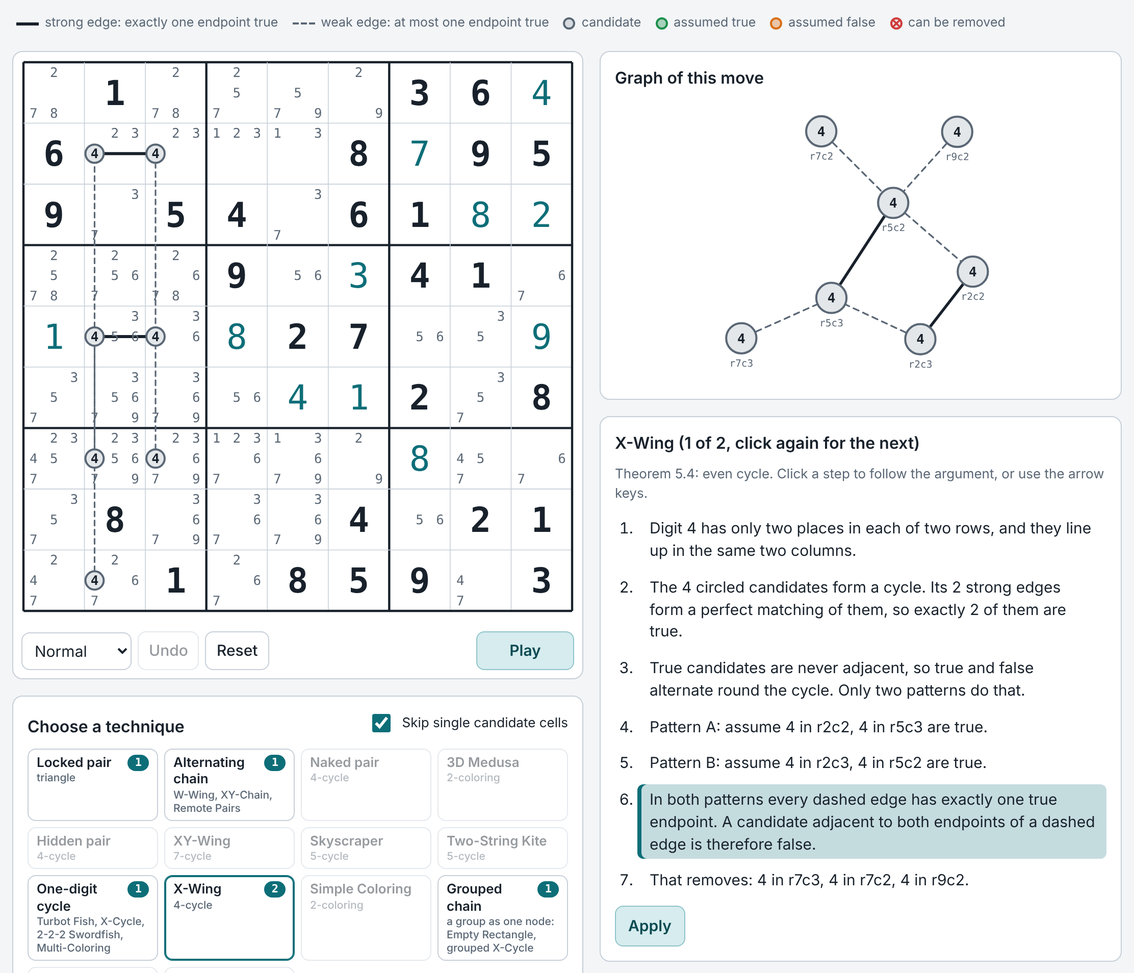
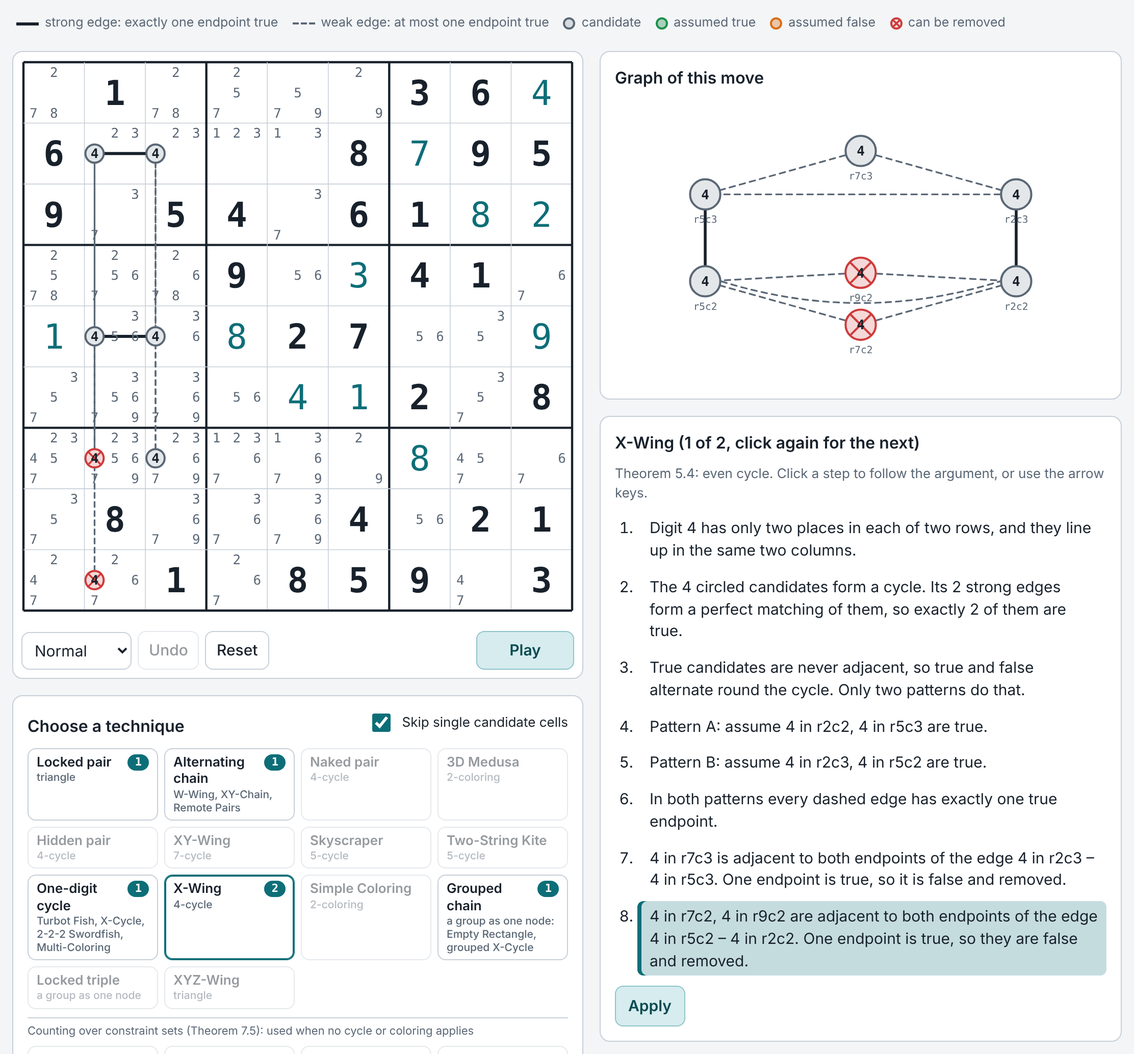
Even-cycle moves: draw both edges from each removed candidate and say which edge removes it
Also drop the remaining made-up labels (counted edge, sets rule) from the solver.

Claude-Session: https://claude.ai/code/session_0161PMRBv2Fxor83Lofabj9S

diff --git a/index.html b/index.html
@@ -361,16 +361,22 @@ svg .landing { animation: landing var(--dur, 1100ms) ease-in-out; }
     }
     if (!elim.size) return null;
     res.elim = [...elim]; res.elim.forEach(t => res.nodes.set(t, 'elim'));
-    // every removed candidate gets one dashed link, to the nearer end of the loop link it is linked to (it is linked to both ends)
-    for (const x of res.elim) for (let i = 0; i < n; i++) { const a = loop[i], b = loop[(i + 1) % n]; if (linked(x, a) && linked(x, b)) { const far = c => Math.abs(ROW(cCell(x)) - ROW(cCell(c))) + Math.abs(COL(cCell(x)) - COL(cCell(c))); res.links.push({ a: x, b: far(a) <= far(b) ? a : b, strong: false }); break; } }
+    // every removed candidate is drawn with its edges to both endpoints of the cycle edge it is adjacent to: that pair is the reason it goes
+    const why = new Map();
+    for (const x of res.elim) for (let i = 0; i < n; i++) { const a = loop[i], b = loop[(i + 1) % n]; if (linked(x, a) && linked(x, b)) { res.links.push({ a: x, b: a, strong: false }); res.links.push({ a: x, b: b, strong: false }); why.set(x, [a, b]); break; } }
     const pat = k => { const m = {}; loop.forEach((c, i) => { m[c] = i % 2 === k ? 't' : 'f'; }); res.elim.forEach(c => { m[c] = 'f'; }); return m; };
     if (intro) say(res, intro);
     say(res, 'The ' + n + ' circled candidates form a cycle. Its ' + (n / 2) + ' strong edges form a perfect matching of them, so exactly ' + (n / 2) + ' of them are true.');
     say(res, 'True candidates are never adjacent, so true and false alternate round the cycle. Only two patterns do that.');
     say(res, 'Pattern A: assume ' + list(loop.filter((_, i) => i % 2 === 0)) + ' are true.', pat(0));
     say(res, 'Pattern B: assume ' + list(loop.filter((_, i) => i % 2 === 1)) + ' are true.', pat(1));
-    say(res, 'In both patterns every dashed edge has exactly one true endpoint. A candidate adjacent to both endpoints of a dashed edge is therefore false.');
-    say(res, 'That removes: ' + list(res.elim) + '.');
+    say(res, 'In both patterns every dashed edge has exactly one true endpoint.');
+    const byEdge = new Map();
+    for (const x of res.elim) { const [a, b] = why.get(x), k = a + ',' + b; if (!byEdge.has(k)) byEdge.set(k, [a, b, []]); byEdge.get(k)[2].push(x); }
+    for (const [a, b, xs] of byEdge.values()) {
+      const m = {}; xs.forEach(x => { m[x] = 'elim'; });
+      say(res, list(xs) + (xs.length > 1 ? ' are' : ' is') + ' adjacent to both endpoints of the edge ' + candName(a) + ' \u2013 ' + candName(b) + '. One endpoint is true, so ' + (xs.length > 1 ? 'they are' : 'it is') + ' false and removed.', m);
+    }
     return res;
   }
 
@@ -670,7 +676,7 @@ svg .landing { animation: landing var(--dur, 1100ms) ease-in-out; }
         if (bits(m) !== k) continue;
         const elim = []; for (const c of cells) if (!cs.includes(c)) for (const d of digits(st.cand[c] & m)) elim.push(cid(c, d));
         if (!elim.length) continue;
-        const res = mkResult('Naked ' + word, 'Theorem 7.5, the sets rule: ' + k + ' cells need ' + k + ' digits');
+        const res = mkResult('Naked ' + word, 'Theorem 7.5: ' + k + ' cells need ' + k + ' digits');
         res.groups = digits(m).map(d => cs.filter(c => has(st, c, d)).map(c => cid(c, d))); res.groupStyle = 'arc';
         { const ed = []; for (const c of cells) for (const d of digits(st.cand[c])) { const id = cid(c, d); ed.push({ l: c, r: d, id, kind: cs.includes(c) ? 'block' : elim.includes(id) ? 'elim' : 'other' }); }
           matchingFor(res, 'Cells and digits of ' + unitName(u) + ': each cell takes one digit', cellName, d => String(d), ed, cs, digits(m)); }
@@ -686,7 +692,7 @@ svg .landing { animation: landing var(--dur, 1100ms) ease-in-out; }
         if (where.length !== k) continue;
         const elim = []; for (const c of where) for (const d of digits(st.cand[c])) if (!dd.includes(d)) elim.push(cid(c, d));
         if (!elim.length) continue;
-        const res = mkResult('Hidden ' + word, 'Theorem 7.5, the sets rule: ' + k + ' digits need ' + k + ' cells');
+        const res = mkResult('Hidden ' + word, 'Theorem 7.5: ' + k + ' digits need ' + k + ' cells');
         res.groups = where.map(c => dd.filter(d => has(st, c, d)).map(d => cid(c, d))); res.groupStyle = 'arc';
         { const ed = []; for (const c of cells) for (const d of digits(st.cand[c])) { const id = cid(c, d); ed.push({ l: c, r: d, id, kind: where.includes(c) && dd.includes(d) ? 'block' : elim.includes(id) ? 'elim' : 'other' }); }
           matchingFor(res, 'Cells and digits of ' + unitName(u) + ': each digit takes one cell', cellName, d => String(d), ed, where, dd); }
@@ -713,7 +719,7 @@ svg .landing { animation: landing var(--dur, 1100ms) ease-in-out; }
         for (const x of cv) for (const c of UNITS[cover + x]) if (!bi.includes(baseOf(c)) && has(st, c, d)) elim.push(cid(c, d));
         const key = elim.join(','); if (!elim.length || seen.has(key)) continue; seen.add(key);
         const num = k === 3 ? 'three' : 'four';
-        const res = mkResult(k === 3 ? 'Swordfish' : 'Jellyfish', 'Theorem 7.5, the sets rule: ' + k + ' ' + bn + ' need ' + k + ' ' + cn);
+        const res = mkResult(k === 3 ? 'Swordfish' : 'Jellyfish', 'Theorem 7.5: ' + k + ' ' + bn + ' need ' + k + ' ' + cn);
         res.groups = cv.map(x => { const g = []; for (const l of ls) for (const c of l.cs) if (coverOf(c) === x) g.push(cid(c, d)); return g; }); res.groupStyle = 'arc';
         res.groups.forEach(g => g.forEach(id => res.nodes.set(id, 'loop')));
         elim.forEach(e => res.nodes.set(e, 'elim')); res.elim = elim;
@@ -741,7 +747,7 @@ svg .landing { animation: landing var(--dur, 1100ms) ease-in-out; }
         const z = digits(st.cand[w1] & st.cand[w2])[0], x = digits(st.cand[w1] & ~(1 << z))[0], y = digits(st.cand[w2] & ~(1 << z))[0];
         const elim = []; for (let c = 0; c < 81; c++) if (c !== p && c !== w1 && c !== w2 && has(st, c, z) && sees(c, p) && sees(c, w1) && sees(c, w2)) elim.push(cid(c, z));
         if (!elim.length) continue;
-        const res = mkResult('XYZ-Wing', 'Lemma 7.6 and Theorem 5.2: a triangle whose edge is counted');
+        const res = mkResult('XYZ-Wing', 'Lemma 7.6 and Theorem 5.2: a triangle');
         // the group dot is the z of the pivot together with the z of one wing; the wing in line with the pivot draws best
         const inLine = w => ROW(w) === ROW(p) || COL(w) === COL(p);
         // ...but not if a removed candidate would sit inside the outline drawn round the two
@@ -759,7 +765,7 @@ svg .landing { animation: landing var(--dur, 1100ms) ease-in-out; }
         say(res, 'If the outlined node is false, the pivot is not ' + z + ' and ' + cellName(ga) + ' is ' + xa + ', so the pivot is ' + xb + ' and ' + cellName(gb) + ' must be ' + z + '. So at least one of the outlined node and ' + candName(zo) + ' is true (solid line).');
         marks[v] = 't'; say(res, 'Suppose ' + candName(v) + ' were true.', snap());
         marks[zp] = 'f'; marks[zg] = 'f'; say(res, 'Then the outlined node is false: ' + cellName(cCell(v)) + ' is adjacent to both of its cells.', snap());
-        marks[zo] = 't'; say(res, 'Then ' + candName(zo) + ' is true, by the counted edge.', snap());
+        marks[zo] = 't'; say(res, 'Then ' + candName(zo) + ' is true (solid line).', snap());
         say(res, 'But ' + candName(zo) + ' and ' + candName(v) + ' cannot both be true: ' + linkWhy(zo, v) + '. Contradiction, so ' + candName(v) + ' is false.', snap(), [zo, v]);
         if (elim.length > 1) say(res, 'The same argument removes: ' + list(elim.slice(1)) + '.');
         out.push(res);
@@ -957,7 +963,7 @@ svg .landing { animation: landing var(--dur, 1100ms) ease-in-out; }
           const key = elim.join(','); if (seen.has(key)) continue; seen.add(key);
           const v = elim[0], line = coverOf(cCell(v)), dot = all.filter(c => coverOf(c) === line).map(c => cid(c, d)), F = fins.map(c => cid(c, d));
           if (!dot.length) continue;
-          const res = mkResult(k === 2 ? 'Finned X-Wing' : 'Finned Swordfish', 'Theorem 7.5, Lemma 7.7 and Theorem 5.2: a fish with a counted edge'), marks = {}, snap = () => Object.assign({}, marks);
+          const res = mkResult(k === 2 ? 'Finned X-Wing' : 'Finned Swordfish', 'Theorem 7.5, Lemma 7.7 and Theorem 5.2: a fish with a fin'), marks = {}, snap = () => Object.assign({}, marks);
           all.forEach(c => res.nodes.set(cid(c, d), 'loop')); F.concat(dot).forEach(id => res.nodes.set(id, 'loop')); res.groups = [F, dot];
           elim.forEach(e => res.nodes.set(e, 'elim')); res.elim = elim;
           res.links.push({ a: F[0], b: dot[0], strong: true, group: true });
@@ -967,7 +973,7 @@ svg .landing { animation: landing var(--dur, 1100ms) ease-in-out; }
           say(res, 'In ' + bn + ' ' + bi.map(i => i + 1).join(', ') + ' the digit ' + d + ' fits only in ' + cn + ' ' + cv.map(i => i + 1).sort().join(', ') + ', except for the fin: ' + list(F) + ', in box ' + (box + 1) + '.');
           say(res, 'The fin is one node (outlined). The ' + d + 's of these ' + bn + ' in ' + one + ' ' + (line + 1) + ' are another. If the fin is false, this is a plain fish and the count proves the second node true. So at least one of the two is true (solid line).');
           marks[v] = 't'; say(res, 'Suppose ' + candName(v) + ' were true.', snap());
-          F.concat(dot).forEach(id => { marks[id] = 'f'; }); say(res, 'It shares box ' + (box + 1) + ' with the fin and ' + one + ' ' + (line + 1) + ' with the other node, so both are false. That breaks the counted edge. Contradiction, so ' + candName(v) + ' is false.', snap());
+          F.concat(dot).forEach(id => { marks[id] = 'f'; }); say(res, 'It shares box ' + (box + 1) + ' with the fin and ' + one + ' ' + (line + 1) + ' with the other node, so both are false. But at least one of the two is true. Contradiction, so ' + candName(v) + ' is false.', snap());
           if (elim.length > 1) say(res, 'The same argument, with the node of its own ' + one + ', removes: ' + list(elim.slice(1)) + '.');
           out.push(res);
         }
@@ -1056,11 +1062,11 @@ svg .landing { animation: landing var(--dur, 1100ms) ease-in-out; }
     { key: 'chain', used: 1599, name: 'Alternating chain', loop: 'W-Wing, XY-Chain, Remote Pairs', find: st => findChains(st, false, 6, 1), blurb: 'Any odd cycle with alternating strong edges.' },
     { key: 'group', used: 14, name: 'Locked triple', loop: 'a group as one node', find: findLockedGroup, blurb: 'A digit confined to three cells that share a second line or box.' },
     { key: 'gchain', used: 29, name: 'Grouped chain', loop: 'a group as one node: Empty Rectangle, grouped X-Cycle', find: findGroupedChains, blurb: 'An odd cycle of one digit in which a node may be a group of cells.'},
-    { key: 'xyz', used: 6, name: 'XYZ-Wing', loop: 'triangle with a counted edge', find: findXYZWing, blurb: 'A pivot with three candidates and two wings.' },
+    { key: 'xyz', used: 6, name: 'XYZ-Wing', loop: 'triangle', find: findXYZWing, blurb: 'A pivot with three candidates and two wings.' },
     /* Beyond links. These are tried only after every loop and coloring above has failed. */
     { key: 'subset', used: 11, name: 'Triples and quads', loop: 'naked or hidden', find: findSubsets, blurb: 'Three or four cells that must share three or four digits.', beyond: true, section: 'count' },
     { key: 'fish', used: 0, name: 'Bigger fish', loop: 'Swordfish, Jellyfish', find: findFish, blurb: 'One digit: three or four rows that fit only three or four columns.', beyond: true, section: 'count' },
-    { key: 'finned', used: 2, name: 'Finned fish', loop: 'a fish with a counted edge', find: findFinnedFish, blurb: 'A fish spoiled by a few extra places in one box.', beyond: true, section: 'count', late: true },
+    { key: 'finned', used: 2, name: 'Finned fish', loop: 'a fish with a fin', find: findFinnedFish, blurb: 'A fish spoiled by a few extra places in one box.', beyond: true, section: 'count', late: true },
     { key: 'als', used: 81, name: 'Almost-locked sets', loop: 'ALS-XZ, WXYZ-Wing, ALS chain, Sue de Coq', find: findALS, blurb: 'Two sets of cells with one digit too many, joined by a shared digit.', beyond: true, section: 'count', late: true },
     { key: 'ur', used: 1, name: 'Unique rectangle', loop: 'uses: one solution', find: findUniqueRectangle, blurb: 'Four corners that would allow two solutions.', beyond: true, section: 'unique' },
     { key: 'guess', used: 0, name: 'Trial and error', loop: 'last resort', find: findGuess, blurb: 'Suppose a candidate is true and follow the single candidate cells to a contradiction.', beyond: true, section: 'last', lastResort: true }
@@ -1308,7 +1314,7 @@ svg .landing { animation: landing var(--dur, 1100ms) ease-in-out; }
   function scan() { avail = {}; var any = false; E.TECHNIQUES.forEach(function (t) { avail[t.key] = E.solved(st) || ((t.lastResort || t.late) && any) ? [] : t.find(st); if (avail[t.key].length) any = true; }); }
   function drawTechs() {
     var h = '';
-    var section = '', heads = { count: 'Counting across sets (the sets rule): used when no cycle or coloring applies', unique: 'Outside the coloring: needs the one-solution fact, or a guess as the last resort', last: null };
+    var section = '', heads = { count: 'Counting over constraint sets (Theorem 7.5): used when no cycle or coloring applies', unique: 'Outside the coloring: needs the one-solution fact, or a guess as the last resort', last: null };
     /* shown by section, and inside a section from most used to least; the order they are tried in stays simplest first */
     var rankSec = { count: 1, unique: 2, last: 3 }, shown = E.TECHNIQUES.map(function (t, i) { return { t: t, i: i }; }).sort(function (a, b) {
       return (a.t.easy ? -1 : rankSec[a.t.section] || 0) - (b.t.easy ? -1 : rankSec[b.t.section] || 0) || (b.t.used || 0) - (a.t.used || 0) || a.i - b.i; }).map(function (x) { return x.t; });

diff --git a/src/engine.js b/src/engine.js
@@ -142,16 +142,22 @@
     }
     if (!elim.size) return null;
     res.elim = [...elim]; res.elim.forEach(t => res.nodes.set(t, 'elim'));
-    // every removed candidate gets one dashed link, to the nearer end of the loop link it is linked to (it is linked to both ends)
-    for (const x of res.elim) for (let i = 0; i < n; i++) { const a = loop[i], b = loop[(i + 1) % n]; if (linked(x, a) && linked(x, b)) { const far = c => Math.abs(ROW(cCell(x)) - ROW(cCell(c))) + Math.abs(COL(cCell(x)) - COL(cCell(c))); res.links.push({ a: x, b: far(a) <= far(b) ? a : b, strong: false }); break; } }
+    // every removed candidate is drawn with its edges to both endpoints of the cycle edge it is adjacent to: that pair is the reason it goes
+    const why = new Map();
+    for (const x of res.elim) for (let i = 0; i < n; i++) { const a = loop[i], b = loop[(i + 1) % n]; if (linked(x, a) && linked(x, b)) { res.links.push({ a: x, b: a, strong: false }); res.links.push({ a: x, b: b, strong: false }); why.set(x, [a, b]); break; } }
     const pat = k => { const m = {}; loop.forEach((c, i) => { m[c] = i % 2 === k ? 't' : 'f'; }); res.elim.forEach(c => { m[c] = 'f'; }); return m; };
     if (intro) say(res, intro);
     say(res, 'The ' + n + ' circled candidates form a cycle. Its ' + (n / 2) + ' strong edges form a perfect matching of them, so exactly ' + (n / 2) + ' of them are true.');
     say(res, 'True candidates are never adjacent, so true and false alternate round the cycle. Only two patterns do that.');
     say(res, 'Pattern A: assume ' + list(loop.filter((_, i) => i % 2 === 0)) + ' are true.', pat(0));
     say(res, 'Pattern B: assume ' + list(loop.filter((_, i) => i % 2 === 1)) + ' are true.', pat(1));
-    say(res, 'In both patterns every dashed edge has exactly one true endpoint. A candidate adjacent to both endpoints of a dashed edge is therefore false.');
-    say(res, 'That removes: ' + list(res.elim) + '.');
+    say(res, 'In both patterns every dashed edge has exactly one true endpoint.');
+    const byEdge = new Map();
+    for (const x of res.elim) { const [a, b] = why.get(x), k = a + ',' + b; if (!byEdge.has(k)) byEdge.set(k, [a, b, []]); byEdge.get(k)[2].push(x); }
+    for (const [a, b, xs] of byEdge.values()) {
+      const m = {}; xs.forEach(x => { m[x] = 'elim'; });
+      say(res, list(xs) + (xs.length > 1 ? ' are' : ' is') + ' adjacent to both endpoints of the edge ' + candName(a) + ' \u2013 ' + candName(b) + '. One endpoint is true, so ' + (xs.length > 1 ? 'they are' : 'it is') + ' false and removed.', m);
+    }
     return res;
   }
 
@@ -451,7 +457,7 @@
         if (bits(m) !== k) continue;
         const elim = []; for (const c of cells) if (!cs.includes(c)) for (const d of digits(st.cand[c] & m)) elim.push(cid(c, d));
         if (!elim.length) continue;
-        const res = mkResult('Naked ' + word, 'Theorem 7.5, the sets rule: ' + k + ' cells need ' + k + ' digits');
+        const res = mkResult('Naked ' + word, 'Theorem 7.5: ' + k + ' cells need ' + k + ' digits');
         res.groups = digits(m).map(d => cs.filter(c => has(st, c, d)).map(c => cid(c, d))); res.groupStyle = 'arc';
         { const ed = []; for (const c of cells) for (const d of digits(st.cand[c])) { const id = cid(c, d); ed.push({ l: c, r: d, id, kind: cs.includes(c) ? 'block' : elim.includes(id) ? 'elim' : 'other' }); }
           matchingFor(res, 'Cells and digits of ' + unitName(u) + ': each cell takes one digit', cellName, d => String(d), ed, cs, digits(m)); }
@@ -467,7 +473,7 @@
         if (where.length !== k) continue;
         const elim = []; for (const c of where) for (const d of digits(st.cand[c])) if (!dd.includes(d)) elim.push(cid(c, d));
         if (!elim.length) continue;
-        const res = mkResult('Hidden ' + word, 'Theorem 7.5, the sets rule: ' + k + ' digits need ' + k + ' cells');
+        const res = mkResult('Hidden ' + word, 'Theorem 7.5: ' + k + ' digits need ' + k + ' cells');
         res.groups = where.map(c => dd.filter(d => has(st, c, d)).map(d => cid(c, d))); res.groupStyle = 'arc';
         { const ed = []; for (const c of cells) for (const d of digits(st.cand[c])) { const id = cid(c, d); ed.push({ l: c, r: d, id, kind: where.includes(c) && dd.includes(d) ? 'block' : elim.includes(id) ? 'elim' : 'other' }); }
           matchingFor(res, 'Cells and digits of ' + unitName(u) + ': each digit takes one cell', cellName, d => String(d), ed, where, dd); }
@@ -494,7 +500,7 @@
         for (const x of cv) for (const c of UNITS[cover + x]) if (!bi.includes(baseOf(c)) && has(st, c, d)) elim.push(cid(c, d));
         const key = elim.join(','); if (!elim.length || seen.has(key)) continue; seen.add(key);
         const num = k === 3 ? 'three' : 'four';
-        const res = mkResult(k === 3 ? 'Swordfish' : 'Jellyfish', 'Theorem 7.5, the sets rule: ' + k + ' ' + bn + ' need ' + k + ' ' + cn);
+        const res = mkResult(k === 3 ? 'Swordfish' : 'Jellyfish', 'Theorem 7.5: ' + k + ' ' + bn + ' need ' + k + ' ' + cn);
         res.groups = cv.map(x => { const g = []; for (const l of ls) for (const c of l.cs) if (coverOf(c) === x) g.push(cid(c, d)); return g; }); res.groupStyle = 'arc';
         res.groups.forEach(g => g.forEach(id => res.nodes.set(id, 'loop')));
         elim.forEach(e => res.nodes.set(e, 'elim')); res.elim = elim;
@@ -522,7 +528,7 @@
         const z = digits(st.cand[w1] & st.cand[w2])[0], x = digits(st.cand[w1] & ~(1 << z))[0], y = digits(st.cand[w2] & ~(1 << z))[0];
         const elim = []; for (let c = 0; c < 81; c++) if (c !== p && c !== w1 && c !== w2 && has(st, c, z) && sees(c, p) && sees(c, w1) && sees(c, w2)) elim.push(cid(c, z));
         if (!elim.length) continue;
-        const res = mkResult('XYZ-Wing', 'Lemma 7.6 and Theorem 5.2: a triangle whose edge is counted');
+        const res = mkResult('XYZ-Wing', 'Lemma 7.6 and Theorem 5.2: a triangle');
         // the group dot is the z of the pivot together with the z of one wing; the wing in line with the pivot draws best
         const inLine = w => ROW(w) === ROW(p) || COL(w) === COL(p);
         // ...but not if a removed candidate would sit inside the outline drawn round the two
@@ -540,7 +546,7 @@
         say(res, 'If the outlined node is false, the pivot is not ' + z + ' and ' + cellName(ga) + ' is ' + xa + ', so the pivot is ' + xb + ' and ' + cellName(gb) + ' must be ' + z + '. So at least one of the outlined node and ' + candName(zo) + ' is true (solid line).');
         marks[v] = 't'; say(res, 'Suppose ' + candName(v) + ' were true.', snap());
         marks[zp] = 'f'; marks[zg] = 'f'; say(res, 'Then the outlined node is false: ' + cellName(cCell(v)) + ' is adjacent to both of its cells.', snap());
-        marks[zo] = 't'; say(res, 'Then ' + candName(zo) + ' is true, by the counted edge.', snap());
+        marks[zo] = 't'; say(res, 'Then ' + candName(zo) + ' is true (solid line).', snap());
         say(res, 'But ' + candName(zo) + ' and ' + candName(v) + ' cannot both be true: ' + linkWhy(zo, v) + '. Contradiction, so ' + candName(v) + ' is false.', snap(), [zo, v]);
         if (elim.length > 1) say(res, 'The same argument removes: ' + list(elim.slice(1)) + '.');
         out.push(res);
@@ -738,7 +744,7 @@
           const key = elim.join(','); if (seen.has(key)) continue; seen.add(key);
           const v = elim[0], line = coverOf(cCell(v)), dot = all.filter(c => coverOf(c) === line).map(c => cid(c, d)), F = fins.map(c => cid(c, d));
           if (!dot.length) continue;
-          const res = mkResult(k === 2 ? 'Finned X-Wing' : 'Finned Swordfish', 'Theorem 7.5, Lemma 7.7 and Theorem 5.2: a fish with a counted edge'), marks = {}, snap = () => Object.assign({}, marks);
+          const res = mkResult(k === 2 ? 'Finned X-Wing' : 'Finned Swordfish', 'Theorem 7.5, Lemma 7.7 and Theorem 5.2: a fish with a fin'), marks = {}, snap = () => Object.assign({}, marks);
           all.forEach(c => res.nodes.set(cid(c, d), 'loop')); F.concat(dot).forEach(id => res.nodes.set(id, 'loop')); res.groups = [F, dot];
           elim.forEach(e => res.nodes.set(e, 'elim')); res.elim = elim;
           res.links.push({ a: F[0], b: dot[0], strong: true, group: true });
@@ -748,7 +754,7 @@
           say(res, 'In ' + bn + ' ' + bi.map(i => i + 1).join(', ') + ' the digit ' + d + ' fits only in ' + cn + ' ' + cv.map(i => i + 1).sort().join(', ') + ', except for the fin: ' + list(F) + ', in box ' + (box + 1) + '.');
           say(res, 'The fin is one node (outlined). The ' + d + 's of these ' + bn + ' in ' + one + ' ' + (line + 1) + ' are another. If the fin is false, this is a plain fish and the count proves the second node true. So at least one of the two is true (solid line).');
           marks[v] = 't'; say(res, 'Suppose ' + candName(v) + ' were true.', snap());
-          F.concat(dot).forEach(id => { marks[id] = 'f'; }); say(res, 'It shares box ' + (box + 1) + ' with the fin and ' + one + ' ' + (line + 1) + ' with the other node, so both are false. That breaks the counted edge. Contradiction, so ' + candName(v) + ' is false.', snap());
+          F.concat(dot).forEach(id => { marks[id] = 'f'; }); say(res, 'It shares box ' + (box + 1) + ' with the fin and ' + one + ' ' + (line + 1) + ' with the other node, so both are false. But at least one of the two is true. Contradiction, so ' + candName(v) + ' is false.', snap());
           if (elim.length > 1) say(res, 'The same argument, with the node of its own ' + one + ', removes: ' + list(elim.slice(1)) + '.');
           out.push(res);
         }
@@ -837,11 +843,11 @@
     { key: 'chain', used: 1599, name: 'Alternating chain', loop: 'W-Wing, XY-Chain, Remote Pairs', find: st => findChains(st, false, 6, 1), blurb: 'Any odd cycle with alternating strong edges.' },
     { key: 'group', used: 14, name: 'Locked triple', loop: 'a group as one node', find: findLockedGroup, blurb: 'A digit confined to three cells that share a second line or box.' },
     { key: 'gchain', used: 29, name: 'Grouped chain', loop: 'a group as one node: Empty Rectangle, grouped X-Cycle', find: findGroupedChains, blurb: 'An odd cycle of one digit in which a node may be a group of cells.'},
-    { key: 'xyz', used: 6, name: 'XYZ-Wing', loop: 'triangle with a counted edge', find: findXYZWing, blurb: 'A pivot with three candidates and two wings.' },
+    { key: 'xyz', used: 6, name: 'XYZ-Wing', loop: 'triangle', find: findXYZWing, blurb: 'A pivot with three candidates and two wings.' },
     /* Beyond links. These are tried only after every loop and coloring above has failed. */
     { key: 'subset', used: 11, name: 'Triples and quads', loop: 'naked or hidden', find: findSubsets, blurb: 'Three or four cells that must share three or four digits.', beyond: true, section: 'count' },
     { key: 'fish', used: 0, name: 'Bigger fish', loop: 'Swordfish, Jellyfish', find: findFish, blurb: 'One digit: three or four rows that fit only three or four columns.', beyond: true, section: 'count' },
-    { key: 'finned', used: 2, name: 'Finned fish', loop: 'a fish with a counted edge', find: findFinnedFish, blurb: 'A fish spoiled by a few extra places in one box.', beyond: true, section: 'count', late: true },
+    { key: 'finned', used: 2, name: 'Finned fish', loop: 'a fish with a fin', find: findFinnedFish, blurb: 'A fish spoiled by a few extra places in one box.', beyond: true, section: 'count', late: true },
     { key: 'als', used: 81, name: 'Almost-locked sets', loop: 'ALS-XZ, WXYZ-Wing, ALS chain, Sue de Coq', find: findALS, blurb: 'Two sets of cells with one digit too many, joined by a shared digit.', beyond: true, section: 'count', late: true },
     { key: 'ur', used: 1, name: 'Unique rectangle', loop: 'uses: one solution', find: findUniqueRectangle, blurb: 'Four corners that would allow two solutions.', beyond: true, section: 'unique' },
     { key: 'guess', used: 0, name: 'Trial and error', loop: 'last resort', find: findGuess, blurb: 'Suppose a candidate is true and follow the single candidate cells to a contradiction.', beyond: true, section: 'last', lastResort: true }

diff --git a/src/index.src.html b/src/index.src.html
@@ -407,7 +407,7 @@ svg .landing { animation: landing var(--dur, 1100ms) ease-in-out; }
   function scan() { avail = {}; var any = false; E.TECHNIQUES.forEach(function (t) { avail[t.key] = E.solved(st) || ((t.lastResort || t.late) && any) ? [] : t.find(st); if (avail[t.key].length) any = true; }); }
   function drawTechs() {
     var h = '';
-    var section = '', heads = { count: 'Counting across sets (the sets rule): used when no cycle or coloring applies', unique: 'Outside the coloring: needs the one-solution fact, or a guess as the last resort', last: null };
+    var section = '', heads = { count: 'Counting over constraint sets (Theorem 7.5): used when no cycle or coloring applies', unique: 'Outside the coloring: needs the one-solution fact, or a guess as the last resort', last: null };
     /* shown by section, and inside a section from most used to least; the order they are tried in stays simplest first */
     var rankSec = { count: 1, unique: 2, last: 3 }, shown = E.TECHNIQUES.map(function (t, i) { return { t: t, i: i }; }).sort(function (a, b) {
       return (a.t.easy ? -1 : rankSec[a.t.section] || 0) - (b.t.easy ? -1 : rankSec[b.t.section] || 0) || (b.t.used || 0) - (a.t.used || 0) || a.i - b.i; }).map(function (x) { return x.t; });
